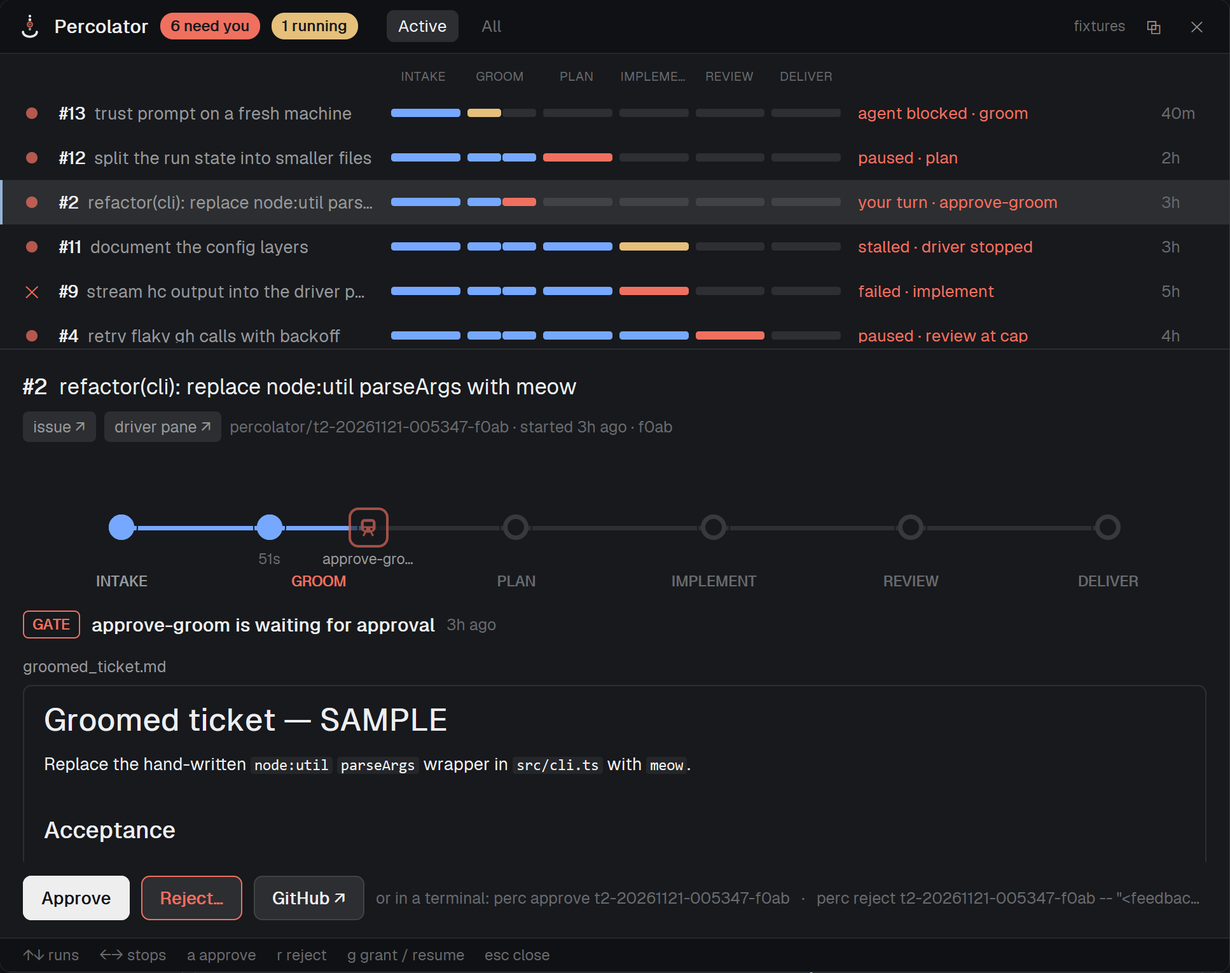
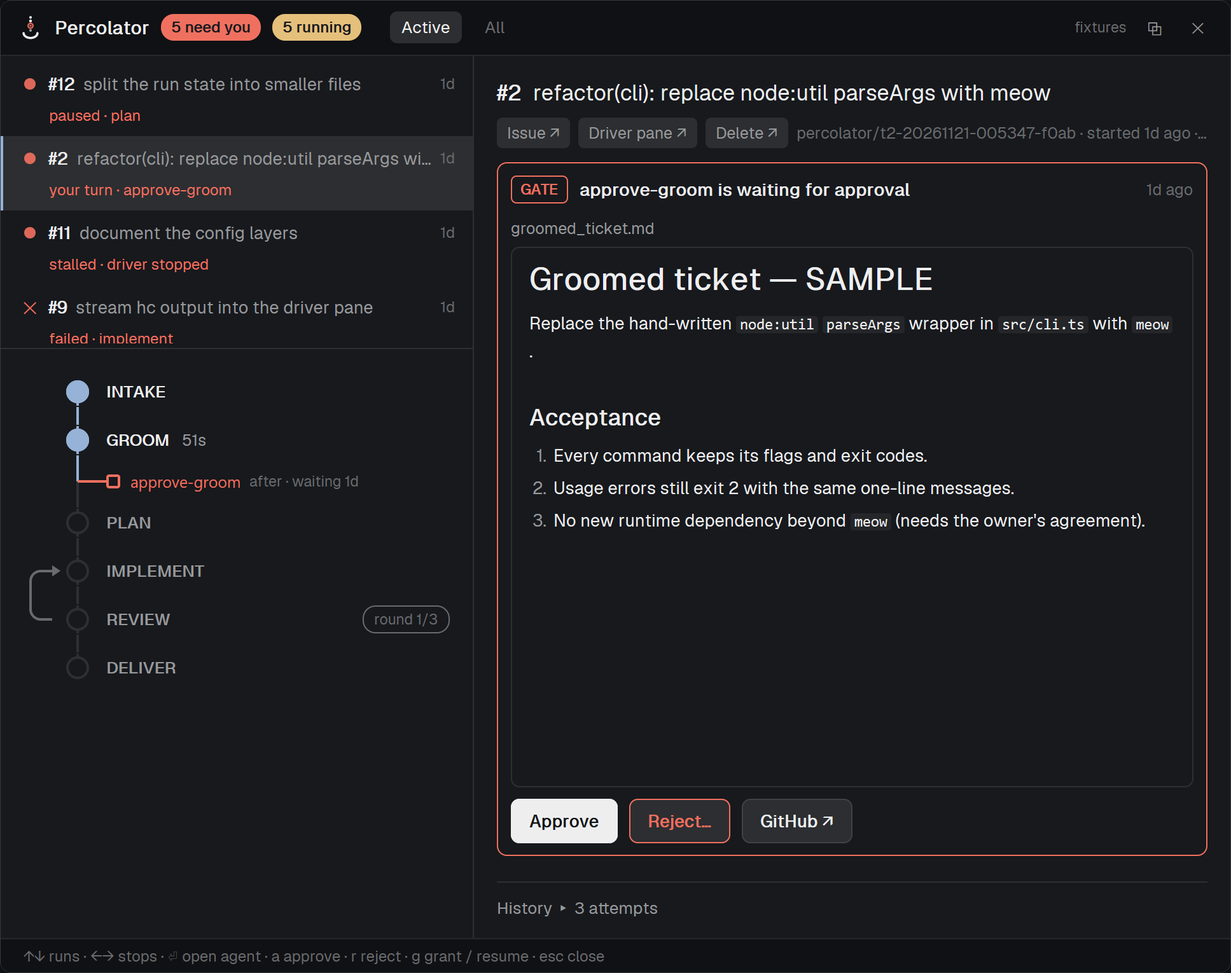
docs(herdr): recipe and preview for the vertical pipeline
The recipe describes the pipeline, agent card, boxes, History fold and two columns from 720 design px; Open terminal uses agent.focus, Driver pane peeks. The preview is the window shot of the gate run. The modes diagram says stage pipeline.

diff --git a/herdr/RECIPE.md b/herdr/RECIPE.md
@@ -1,6 +1,6 @@
 # Percolator
 
-Herdr's own layout (a copy of its shipped `main`, 0.1.16) plus a Percolator panel and a status-bar cup. The cup, at the right end of the status bar, says how many Percolator runs need you ("2 need you", "1 running", or "Percolator") and shows or hides the panel. The panel lists every run as a row with its state line, and for the run you pick shows a big train, what it waits for, the file to review, and the buttons to answer (Approve, Reject, Resume, and so on). It reads `perc status --json` and answers by running `perc`.
+Herdr's own layout (a copy of its shipped `main`, 0.1.16) plus a Percolator panel and a status-bar cup. The cup, at the right end of the status bar, says how many Percolator runs need you ("2 need you", "1 running", or "Percolator") and shows or hides the panel. The panel lists every run as a row with its state line, and for the run you pick shows its pipeline top to bottom, the agent at work or what the run waits for, the file to review, and the buttons to answer (Approve, Reject, Resume, and so on). It reads `perc status --json` and answers by running `perc`.
 
 ![Percolator](preview.png)
 
@@ -14,39 +14,42 @@ The layout is Herdr's `main` (sidebar with spaces and agents, tabs, work area, s
 
 **The panel.** A 380px block at the right of the work area (min 280, max 900), hidden until shown. Top to bottom:
 
-1. Title bar: the mark (ring coloured needs-you, else working, else accent), "Percolator", the chips "N need you" and "N running" (the second only when 720px or wider), the tabs Active and All, a pop-out button (⧉) and a close button (✕), always at the right. When the panel is narrow, "Percolator" truncates first, then the chip shortens to "N" (under 370px), then the tabs move to a second row (under 320px; under 300px with no chip). The word "fixtures" appears when the panel reads a sample file.
-2. Board: one row per run, needing-you first, then running, then newest. A row has a status icon (pulsing dot for something that needs you, ✕ failed, spinner running, ✓ done), `#n` and the title, a state line ("your turn · approve-groom", "paused · review at cap", "failed · implement", "stalled · driver stopped", "review · round 2/3", "delivered · PR #7") and the age. The pipeline is the selected run's train below, not repeated in the rows. Narrow: two lines per row, the state line on the second, across the full width. Empty: the greyed mark and "No runs yet" (All) or "Nothing running, nothing waiting on you" (Active), then `perc run <owner/repo#issue>`. The board scrolls when the runs don't fit; below it a 7px divider (a 1px border line, accent while dragged, row-resize cursor) sets its height.
-3. Run header: `#n title` (the ticket ref until intake has read the issue); links "issue ↗" (once its URL is known), "PR ↗" (if any), "driver pane ↗" / "hide driver pane" (when the run has a space and its driver terminal is live); then branch, started ago, short id.
-4. Train: six equal zones. Inside a zone, the stage's steps in execution order (`before:<stage>` hooks, the stage's own steps, `after:<stage>` hooks; `before-all` hooks first in intake, `after-all` hooks last in deliver). Core steps are 18px round stops, hook steps ("nodes") 10px round, gates square. One marker (a ring with a train glyph; square at a gate) sits at the current step. The stage name is under each zone, coloured when current; under a core stop its duration, under a node its id. Loop arcs above the track run from the step the loop returns to, labelled "↺ review → implement · round 2 of 3"; red and "· cap" at the cap. Narrow: nodes fold into "+n" under their stop.
-5. Lower half, by state:
-   - Needs you: a tag (GATE, PAUSED, FAILED or STALLED), the message, the age, an optional detail line; the first review file rendered as markdown; the action buttons; a "Terminal commands" row (click to open, closed by default, the choice kept while the panel lives) listing the equivalent `perc` commands, each with a Copy button.
-   - Running: "RUNNING · <step> is running for 3m. <a coffee line, fixed per run and step>" with a "watch agent ↗" link, then the run history.
-   - Delivered: "DELIVERED · Opened <pr>" and the history.
-   - Run history (newest first, one row per attempt): mark, step, round ("round 2"), status, start time (HH:MM), time taken, and a note ("approved by @login" for a gate decision). A loop that hit its cap adds a red ↺ row ("review → implement hit its cap of 3 rounds"). It is the body of the lower half when nothing else is (running or delivered); when the reader fills the body it is a "Run history" row after the buttons (click to open, closed by default, the choice kept while the panel lives) that opens a 150px scrolling box. Against a perc that sends no timeline, one row per step that ran.
-   Items 3 to 5 scroll together as one region. The review file (or the history) fills what that region has left, at least 120px, and scrolls on its own past its height; with less room the region scrolls instead.
-6. Key hint row (wide only): "↑↓ runs, ←→ stops, a approve, r reject, g grant / resume, esc close".
+1. Title bar: the mark (ring coloured needs-you, else working, else accent), "Percolator", the chips "N need you" and "N running" (the second only at 720 or wider), the tabs Active and All, a pop-out button (⧉) and a close button (✕), always at the right. When the panel is narrow, "Percolator" truncates first, then the chip shortens to "N" (under 370), then the tabs move to a second row (under 320; under 300 with no chip). At 720 or wider the word "fixtures" appears when the panel reads a sample file.
+2. Board: one row per run, needing-you first, then running, then newest. A row has two lines: a status icon (pulsing dot for something that needs you, ✕ failed, spinner running, ✓ done, ! unreadable), `#n`, the title and the age; under them the state line ("your turn · approve-groom", "paused · review at cap", "paused · plan", "failed · implement", "stalled · driver stopped", "review · round 2/3", "delivered · PR #7"). The age counts from when the run started needing you, else from its start. Empty: the greyed mark and "No runs yet" (All) or "Nothing running, nothing waiting on you" (Active), then `perc run <owner/repo#issue>`. The board scrolls when the runs don't fit; below it a 7px divider (a 1px border line, accent while dragged, row-resize cursor) sets its height.
+3. Run header: `#n title` (the ticket ref until intake has read the issue); links "Issue ↗" (once its URL is known), "PR ↗" (if any), "Driver pane ↗" (while the run's driver terminal is live), "Delete ↗"; then the branch (two columns only), started ago, short id.
+4. Pipeline: the selected run top to bottom, one row per step in execution order: `before-all` hooks, then each stage with its `before:<stage>` hooks, its own steps and its `after:<stage>` hooks, then `after-all` hooks. Core steps sit on a 2px spine, accent down to the active row (or the last that ran), border after it. A core step is a 16px stop (filled accent once passed, filled "blocked" when it failed, outlined while it waits its turn; square-cornered at a gate) with its name in capitals and, once passed, its duration. The active stop is a 24px ring with a dot, "working" coloured, or "blocked" when the run needs you or failed. Hooks hang on a 20px branch to the right of the spine: a 10px node (square-cornered at a gate), the id in monospace, and a muted note (where it runs: `before`, `after`, `before-all` or `after-all`; the last gate decision such as "approved by @login", then its duration or "waiting 1d"). Passed hooks fold into a "+n" beside their stage's name (tooltip "also <ids>"); the active hook, and one waiting, failed or not started, keeps its row. A core step a loop starts from has a round pill at the right, "round 2/3" ("· cap" added at the cap): dim before the loop is taken, "working" once taken, "blocked" at the cap. Each loop is a rounded bracket in the 26px gutter left of the spine, from its `from` row up to its `to` row, with an arrowhead into the `to` row, in the pill's colour; two loops sit 6px apart.
+5. Under the active stop (one column), or at the top of the right column (two columns):
+   - An agent at work: the agent card, a badge with the program's initial, "<program> · <status>" (Herdr's status for the agent: "working" and "blocked" in their colours, anything else muted), the terminal name and how long the step has run, and "Open ↗" (one column) or "Open terminal ↗" (two columns). The card has a "working" border while its terminal is live; dim and inert while it is not. Before the step has a terminal: "agent not started".
+   - Needs you: a box with a "blocked" border: a tag (GATE, PAUSED, FAILED or STALLED), the message, the age (narrow: the tag and age on a line of their own, the message under them), an optional detail line, the agent's program, status and terminal when the step has one, the first review file rendered as markdown, then the buttons. Action errors, and what fixtures mode would have run, show under the buttons.
+   - Finished, and nothing under the stop: "DELIVERED · Opened <owner/repo/pull/n>" (or "Done."), "UNREADABLE" and the error, or the run's status as a tag. In one column this shows under the pipeline, as does a box whose step has no row.
+   - The picked stop's strip (under its row in one column; under the box in two): the step, its kind, stage, status, attempts and time taken, its outputs as links, and the picked output (else the first) read under them.
+   - History: a fold under a line, "History ▸ 3 attempts" ("▾" when open), closed by default, the choice kept while the panel lives. Open, the run history in a box that scrolls past 200px, newest first, one row per attempt: mark, step, round ("round 2"), status, start time (HH:MM), time taken, and a note ("approved by @login" for a gate decision). A loop that hit its cap adds a red ↺ row ("review → implement hit its cap of 3 rounds"). Against a perc that sends no timeline, one row per step that ran.
+   A reader (the file to review, a stop's output) shows the file name and, in the docked panel, "Read full ↗"; it scrolls on its own past half the area under the title bar. A file the box already reads is not read again in the strip.
+6. Key hint row (two columns only): "↑↓ runs · ←→ stops · ⏎ open agent · a approve · r reject · g grant / resume · esc close".
 
-**The window.** The panel can pop out into a floating 860x680 window (key `percolator`, remembers its place), the same view at the wider width: the full layout from 720px up.
+Widths here are design px: Herdr's zoom scales them, so at zoom 1.5 the 720 layout needs a 1080px panel. Under 720 the panel is one column: the board, the divider, then the header, pipeline and what is under it, scrolling together. From 720 it is two columns: on the left, 330px, the board, the divider and the pipeline, which scrolls; on the right, the header, the box (or how the run ended), the picked stop's strip and the History fold. The right column does not scroll as a whole, so the buttons stay in view; its readers take the height left.
+
+**The window.** The panel can pop out into a floating 860x680 window (key `percolator`, remembers its place), the same view at the wider width: two columns.
 
 Every colour comes from `theme()`; nothing is hard-coded, so it follows light and dark.
 
 ## How it behaves
 
-**Statuses.** Each run is one of: needs you (a gate, a paused run, a failed run until `perc clean` removes its worktree, a stalled run whose driver stopped, or an agent that is blocked), running, done. Needs-you is the red-orange "blocked" colour with a pulsing dot; running is the "working" colour with a spinner; done is a check.
+**Statuses.** Each run is one of: needs you (a gate, a paused run, a failed run until `perc clean` removes its worktree, or a stalled run whose driver stopped), running, done. A run whose agent is blocked counts as running: Herdr already marks the agent, and the agent card under the active stop shows its "blocked" status. Needs-you is the red-orange "blocked" colour with a pulsing dot; running is the "working" colour with a spinner; done is a check.
 
-**Clicks.** Cup: toggles the panel (or the window, whichever you last used). ✕ and Esc hide it. ⧉ pops the panel out into the window and hides the docked one; ⧉ in the window docks it back and closes the window. A row, or ↑/↓, selects a run. A train stop, or ←/→, opens a strip with its kind, stage, status, attempts, time taken and its output files as links that open in the reader. A stop that has not started can't be selected, by mouse or ←/→; it keeps its tooltip. The strip of a step that ran more than once has ‹ › to move between its rounds; the latest is shown first, marked "running", "waiting" or "latest"; each round's outputs open in the reader. The links in the run header open the issue, the PR, or toggle the driver: it starts hidden from the run's space; **driver pane ↗** labels it into the space (`hc label -- <driver> herdr.space=<space>`) and focuses it, **hide driver pane** removes the label (`herdr.space=`). Only a terminal labelled with this run and role driver is touched.
+**Clicks.** Cup: toggles the panel (or the window, whichever you last used). ✕ and Esc hide it. ⧉ pops the panel out into the window and hides the docked one; ⧉ in the window docks it back and closes the window. A row, or ↑/↓, selects a run. A pipeline row, or ←/→, picks its step and opens its strip; a click on the picked row, or Esc, closes it. A step that has not started can't be picked, by mouse or ←/→; it keeps its tooltip. ←/→ move up and down through every started step, hooks included (a folded hook's strip opens under its stage). Picking a stage with folded hooks unfolds them; closing it folds them again. The strip of a step that ran more than once has ‹ › to move between its rounds; the latest is shown first, marked "running", "waiting" or "latest"; each round's outputs open in its reader. The agent card, the active stop while an agent works there in a live terminal (tooltip "Open terminal"), Open terminal ↗ and Enter focus the agent's terminal (`agent.focus`). Read full ↗ pops the panel out into the window. The links in the run header open the issue or the PR; **Driver pane ↗** peeks at the run's driver terminal (`terminal.peek`): closing the peek leaves the driver, and the run, going.
 
-**Buttons** come from the `actions` of the run in the JSON: Approve, Reject…, Grant a round & resume, Resume, Clean up, Go to agent pane, plus GitHub ↗ for gates. Each runs `perc` with an argv array (`approve <id>`, `reject <id> <feedback>`, ...). While it runs the button shows a spinner and the others are disabled; on exit 0 the panel refreshes; on failure the first stderr line shows under the buttons. Reject… opens a feedback box under the reader (Ctrl+Enter sends, Esc cancels); empty feedback is refused with "Say what to change". Clean up asks once through Herdr's `confirm`. Approve and Reject do not confirm.
+**Buttons** come from the `actions` of the run in the JSON: Approve, Reject…, Grant a round & resume, Resume, Clean up, plus GitHub ↗ for gates, Open terminal ↗ while the step's agent terminal is live, and Driver pane ↗ in a failed or stalled box while the driver is live (its last screen often says why). Each action runs `perc` with an argv array (`approve <id>`, `reject <id> -- <feedback>`, ...). While it runs the button shows a spinner and the others are disabled; on exit 0 the panel refreshes; on failure the first stderr line shows under the buttons. Reject… opens a feedback box under the buttons (Ctrl+Enter sends, Esc cancels); empty feedback is refused with "Say what to change". Clean up asks once through Herdr's `confirm`. Approve and Reject do not confirm.
 
-Every run's header, in both tabs and unreadable runs included, has **Delete…**; the All tab has **Delete finished runs…**. Each asks once through Herdr's `confirm`: Delete… names the run and its ticket, says uncommitted worktree changes are lost (for an unreadable run: its worktree too, if its record still names one), the branch `percolator/<id>` is kept, and that an active run is stopped first; Delete finished runs… lists the completed and failed runs it removes, or says "No finished runs" beside the button (until a finished run is listed) and opens no confirm. A delete confirmed while another action runs is not run; the panel says "Another action is running; try Delete again". After a delete the selection moves to the next run, else the previous one, else the empty state.
+Every run's header, in both tabs and unreadable runs included, has **Delete ↗**; the All tab has **Delete finished runs ↗**. Each asks once through Herdr's `confirm`: Delete ↗ names the run and its ticket, says uncommitted worktree changes are lost (for an unreadable run: its worktree too, if its record still names one), the branch `percolator/<id>` is kept, and that an active run is stopped first; Delete finished runs ↗ lists the completed and failed runs it removes, or says "No finished runs" beside the button (until a finished run is listed) and opens no confirm. A delete confirmed while another action runs is not run; the panel says "Another action is running; try Delete again". After a delete the selection moves to the next run, else the previous one, else the empty state.
 
 **Board height.** Drag the divider between the board and the run below: the board keeps at least two rows (or all its rows if fewer) and at most 70% of the area below the title bar; double-click resets it to 30%. The height is kept as a ratio of that area in shared state (`percolator.boardRatio`, saved by Herdr), so the docked panel and the window show the same proportion and it survives a restart; before the first drag, the older per-copy `localStorage` value `board.ratio` is used if there is one. ↑/↓ scroll the board to the selected row.
 
-**Keys** (panel focused, not typing): ↑/↓ runs, ←/→ stops, `a` approve, `r` reject, `g` grant or resume, Esc closes the reject box, then the stop strip, then hides the panel.
+**Keys** (panel focused, not typing): ↑/↓ runs, ←/→ stops, Enter opens the agent at work, `a` approve, `r` reject, `g` grant or resume, Esc closes the reject box, then the stop strip, then hides the panel.
 
 **Data.** On start, on each change under `~/.percolator/runs` (about 300ms after a burst) and every 10s, the cup runs `perc status --json`, and so does the panel copy where the panel lives (docked or window) while it is shown; a copy that comes back into view refreshes at once. If a call fails, the last good board stays and a one-line error bar says what failed and what to do (`perc status --json failed: <first stderr line>; check perc is installed and run perc herdr link`). Until `perc herdr link` has run, the panel shows only "Run perc herdr link once to connect".
 
-**Notices.** When a run newly needs you (compared with the previous refresh, never on the first load), the cup posts a warning toast "#<n> needs you" with the message; clicking it shows the panel where you last had it (docked or window) and selects that run. For an agent that is blocked, Herdr may also post its own "agent needs you" notification, so you may see two toasts.
+**Notices.** When a run newly needs you (compared with the previous refresh, never on the first load), the cup posts a warning toast "#<n> needs you" with the message; clicking it shows the panel where you last had it (docked or window) and selects that run. A blocked agent gets no toast from the cup: it does not count as needing you, and Herdr may post its own notification for its agents.
 
 **Where it is.** The place (docked or window) is remembered in shared state `percolator.place`. Only the copy that matches it acts on `percolator.*` commands and keys, so a docked panel and a window never both answer.
 
@@ -57,7 +60,7 @@ Every run's header, in both tabs and unreadable runs included, has **Delete…**
 - `layouts/percolator.json`: Herdr's shipped `main` 0.1.16 (`cloned_from` records it) with two additions.
   - In `work-body` (the row after `main` and the Files/Changes `panel` column), a block `percolator-panel`: `hidden: true`, `size: {px: 380}`, `min: 280`, `max: 900`, `content: {mod: "percolator"}`. It is its own block, not a child of `panel-body`: Herdr's tabs mod hides stack children that are not in the space's `workspace.panels`, which would close the Percolator panel on every space switch.
   - In `status-row` (a row, 28px), after `status` (weight 1), a block `percolator-cup`: `size: {px: 150}`, `content: {mod: "percolator-cup"}`.
-- `mods/percolator/` (the panel; plain JS, no build): `mod.json`, `main.js` (the view), `board.js`, `train.js`, `turn.js`, `ui.js`, `model.js` (pure logic, the only reader of the JSON contract), `model.d.ts` (its types), `source.js` (runs `perc status --json`, watches `~/.percolator/runs`), `mark.js`, and the art `glyph-base.svg`, `glyph-live.svg`, `train.svg`. `mod.json` is `{"place": "none", "title": "Percolator", "overlay": {"kind": "window", "width": 860, "height": 680, "key": "percolator"}}`.
+- `mods/percolator/` (the panel; plain JS, no build): `mod.json`, `main.js` (the view and its layout), `board.js`, `pipeline.js` (the run header, the pipeline and the stop strip), `turn.js` (the agent card, the box, the History fold), `ui.js`, `model.js` (pure logic, the only reader of the JSON contract), `model.d.ts` (its types), `source.js` (runs `perc status --json`, watches `~/.percolator/runs`), `mark.js`, and the art `glyph-base.svg`, `glyph-live.svg`, `loop-arrow.svg`. `mod.json` is `{"place": "none", "title": "Percolator", "overlay": {"kind": "window", "width": 860, "height": 680, "key": "percolator"}}`.
 - `mods/percolator-cup/` (the cup): `mod.json` (`{"place": "none", "title": "Percolator cup"}`), `main.js`, and copies of the panel's `model.js`, `mark.js` and `source.js`.
 - `fixtures/status.json` and `fixtures/samples/` (`findings.md`, `groomed_ticket.md`, `implement-log.md`, the review files that `status.json` points to by relative path): a sample `perc status --json`, for trying the panel without Percolator (see Install, step 5).
 - `preview.png` and this recipe are for the listing; do not copy them into Herdr.
@@ -77,9 +80,9 @@ Every run's header, in both tabs and unreadable runs included, has **Delete…**
 
 Shipped mods used: `workspace-chrome`, `spaces`, `agents`, `tabs`, `files`, `changes`, `pane`, `workspace-status` (all from `main`).
 
-`herdr` functions used: `exec` (runs `perc`), `readTextFile`, `watchFolder`, `appHome`, `home`, `layout`, `run` (`layout.show`, `layout.hide`, `pane.focus`), `hc` (`get` and `label` for the driver toggle) and `terminals` (whether a terminal is live; perc gives hc terminal names, matched against `terminals()` names or addresses, and `pane.focus` gets the address), `openOverlay` and `closeOverlay`, `props`, `shared` and `setShared`, `nextCommand`, `notify`, `checking`, `theme`; Clean up, Delete… and Delete finished runs… open Herdr's shipped `confirm` mod as an overlay. Shared state keys: `percolator.place` (`"panel"` or `"window"`), `percolator.window` (the open window's overlay id), `percolator.focus` (`{run, at}`: the run to select). Commands: `percolator.*` (`key/<key>`, `clean/<id>`, `delete/<id>[,<id>…]` (the runs a delete confirm listed), `place`, `focus`) and `percolator-cup.*` (`open/<run-id>`, `toggle`). The window opens with `openOverlay({kind: "window", key: "percolator", keep: true, mod: "percolator", width: 860, height: 680})`.
+`herdr` functions used: `exec` (runs `perc`), `readTextFile`, `watchFolder`, `appHome`, `home`, `layout`, `run` (`layout.show`, `layout.hide`, `agent.focus` for the agent's terminal, `terminal.peek` for the driver), `terminals` (whether a terminal is live; perc gives hc terminal names, matched against `terminals()` names or addresses, and `agent.focus` and `terminal.peek` get the address), `agents` (the agent card's program and status), `settings` (the zoom, to measure in design px), `openOverlay` and `closeOverlay`, `props`, `shared` and `setShared`, `nextCommand`, `notify`, `checking`, `theme`; Clean up, Delete ↗ and Delete finished runs ↗ open Herdr's shipped `confirm` mod as an overlay. Shared state keys: `percolator.place` (`"panel"` or `"window"`), `percolator.window` (the open window's overlay id), `percolator.focus` (`{run, at}`: the run to select). Commands: `percolator.*` (`key/<key>`, `clean/<id>`, `delete/<id>[,<id>…]` (the runs a delete confirm listed), `place`, `focus`) and `percolator-cup.*` (`open/<run-id>`, `toggle`). The window opens with `openOverlay({kind: "window", key: "percolator", keep: true, mod: "percolator", width: 860, height: 680})`.
 
-Programs it runs: `node <cli> status --json` and, for the buttons, `node <cli> approve|reject|resume|clean|...` (Delete… runs `delete <id> --yes`, Delete finished runs… `delete <id> <id>… --yes` with the ids its confirm listed, so a run that finishes while the dialog is open is kept), where `node` and `<cli>` come from `mods/percolator/perc.json`: `{"node": "<absolute path of node>", "cli": "<absolute path of perc's cli>"}`. `perc herdr link` writes this file. It runs `node` directly, with no shell, so it works on Windows (no `.cmd` shim) and does not depend on PATH.
+Programs it runs: `node <cli> status --json` and, for the buttons, `node <cli> approve|reject|resume|clean|...` (Delete ↗ runs `delete <id> --yes`, Delete finished runs ↗ `delete <id> <id>… --yes` with the ids its confirm listed, so a run that finishes while the dialog is open is kept), where `node` and `<cli>` come from `mods/percolator/perc.json`: `{"node": "<absolute path of node>", "cli": "<absolute path of perc's cli>"}`. `perc herdr link` writes this file. It runs `node` directly, with no shell, so it works on Windows (no `.cmd` shim) and does not depend on PATH.
 
 The data contract is the output of `perc status --json` (schema field `schema`); `model.js` is its only reader.
 
@@ -92,7 +95,7 @@ The data contract is the output of `perc status --json` (schema field `schema`);
 - **Mods-only install** (no layout copy, so no cup, no docked panel and no notices): copy `mods/percolator/` only, then connect as in Install, step 5. Open the window with the command `mod.open` and the name `percolator`. To bind a key, add this to `<home>/keys.json` (merge into the person's file; ask before replacing a key they use): `{"global": {"ctrl-alt-p": "mod.open:percolator"}}`. With the cup installed, `"ctrl-alt-p": "percolator-cup.toggle"` toggles the panel instead.
 - **The window uses key `percolator` with `keep: true`**, so it remembers its place; the docked block is `percolator-panel`.
 - **One copy acts.** The docked panel and the window can both exist; only the one matching `percolator.place` handles `percolator.*` commands and keys.
-- **Two toasts.** For a blocked agent Herdr may also post its own "agent needs you" notification next to the cup's.
+- **A blocked agent is Herdr's.** The panel counts its run as running and the cup posts no toast for it; Herdr's own agent status (and any notification it posts) tells you, and the agent card shows its status.
 
 ## Done when
 
@@ -100,10 +103,11 @@ Items marked (eyes) need the person to look at the window; the rest an agent can
 
 - `herdr-app check` on `mods/percolator/` and on `mods/percolator-cup/` prints `check passed`.
 - After the switch (Install, step 4), `herdr-app status` shows `"layout": "percolator"`; (eyes) Herdr's normal layout appears with the cup at the right end of the status bar, labelled "Percolator" (its tooltip, before any `perc.json` exists, reads "Run perc herdr link once to connect").
-- With `perc.json` set to the fixture and the mods reloaded: (eyes) the cup reads "N need you" with a pulsing ring; a click shows the 380px panel with the board, and the title bar says "fixtures".
+- With `perc.json` set to the fixture and the mods reloaded: (eyes) the cup reads "N need you" with a pulsing ring; a click shows the 380px panel with the board, one column.
 - (eyes) The panel stays open after you switch to another space.
 - (eyes) Selecting the gate run shows a GATE tag, the groomed ticket rendered as markdown, and Approve, Reject… and GitHub ↗ buttons; Approve says what it would run (fixtures mode).
-- (eyes) ⧉ closes the docked panel and opens the 860x680 window with the same content; ⧉ in the window closes it and docks the panel again.
+- (eyes) Selecting a run shows its pipeline: stops on the spine, hooks on branches to its right, each loop as a bracket with an arrowhead into the row it returns to, a round pill on the step it starts from. A running run shows the agent card under its active stop (dim in fixtures mode: no terminal is live).
+- (eyes) ⧉ closes the docked panel and opens the 860x680 window in two columns, the board and pipeline left, the run right, and "fixtures" in the title bar; ⧉ in the window closes it and docks the panel again.
 - (eyes) Cup click, ✕ and Esc each hide a shown panel; a click on a "needs you" toast shows the panel on that run.
 - After `perc herdr link` and a mod reload: (eyes) the panel and cup show your real runs, the same as `perc status --json`, and the "Run perc herdr link once to connect" tooltip is gone.
 - (eyes) A light and a dark appearance both read well.
